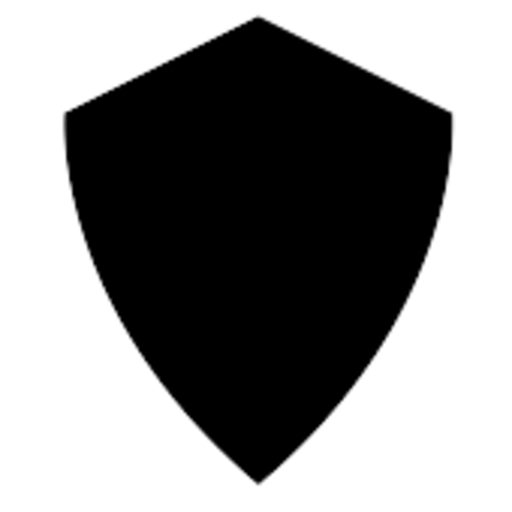
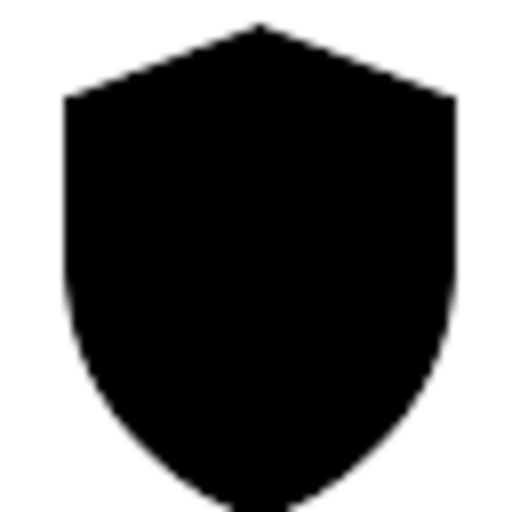
fix: M8 broken import (call_llm→call_claude), health check Opus→Haiku, auto_blog deprecated model
- M8 amendment: call_llm neexistuje v llm_engine → opraveno na call_claude
- Health check ping: claude-opus-4-6 → claude-haiku-4-5 (šetří → per MTok)
- auto_blog: gemini-2.0-flash-exp (deprecated) → gemini-2.5-flash

Changed region(s): [[0.0938, 0.0312, 0.9062, 1.0]]

diff --git a/frontend/src/app/layout.tsx b/frontend/src/app/layout.tsx
@@ -50,6 +50,17 @@ export const metadata: Metadata = {
         "AI Act povinnosti",
     ],
     authors: [{ name: "AIshield.cz" }],
+    icons: {
+        icon: [
+            { url: "/favicon.ico", sizes: "any" },
+            { url: "/favicon.svg", type: "image/svg+xml" },
+            { url: "/favicon-32.png", sizes: "32x32", type: "image/png" },
+            { url: "/favicon-16.png", sizes: "16x16", type: "image/png" },
+        ],
+        apple: [
+            { url: "/apple-touch-icon.png", sizes: "180x180", type: "image/png" },
+        ],
+    },
     openGraph: {
         title: {
             default: "AI Act compliance pro české weby — skenujte zdarma za 60 sekund | AIshield.cz",

diff --git a/backend/monitoring/admin_notifier.py b/backend/monitoring/admin_notifier.py
@@ -1,0 +1,246 @@
+"""
+AIshield.cz — Admin Notifier
+Odesílá emailové notifikace adminům o důležitých událostech:
+  - Chyby v pipeline (fire_and_forget_notify_error)
+  - Organický sken dokončen
+  - Hloubkový sken spuštěn
+  - Klient si zobrazil výsledky
+  - Dokumenty čekají na schválení
+"""
+
+import asyncio
+import logging
+import threading
+from datetime import datetime, timezone
+
+from backend.outbound.email_engine import send_email
+
+logger = logging.getLogger(__name__)
+
+# Adminské emaily — stejné jako v pioneer.py
+ADMIN_EMAILS = ["info@aishield.cz"]
+
+ADMIN_PANEL_URL = "https://aishield.cz/admin"
+
+
+def _wrap(title: str, body_html: str) -> str:
+    """Obalí obsah do společné šablony."""
+    return f"""
+    <div style="font-family: Arial, sans-serif; max-width: 700px; margin: 0 auto; color: #1a1a2e;">
+        <h2>{title}</h2>
+        {body_html}
+        <hr style="margin: 24px 0; border: none; border-top: 1px solid #e0e0e0;">
+        <p style="font-size: 12px; color: #888;">
+            Automatická notifikace z AIshield.cz — {datetime.now(timezone.utc).strftime('%Y-%m-%d %H:%M UTC')}
+        </p>
+    </div>"""
+
+
+async def _send_to_admins(subject: str, html: str) -> None:
+    """Pošle email všem adminům. Chyby loguje, ale nepropaguje."""
+    for email in ADMIN_EMAILS:
+        try:
+            await send_email(to=email, subject=subject, html=html)
+        except Exception as e:
+            logger.warning(f"[AdminNotifier] Email na {email} selhal: {e}")
+
+
+# ──────────────────────────────────────────────────────────────────────
+#  fire_and_forget_notify_error  — synchronní wrapper pro pipeline.py
+# ──────────────────────────────────────────────────────────────────────
+
+def fire_and_forget_notify_error(
+    module: str,
+    error: Exception | None,
+    context: dict | None = None,
+) -> None:
+    """
+    Synchronní fire-and-forget: spustí async odeslání v novém threadu.
+    Volá se z pipeline.py uvnitř try/except — nesmí nikdy crashnout.
+    """
+    try:
+        ctx = context or {}
+        subject_text = ctx.pop("subject", None)
+        subject = subject_text or f"⚠ Chyba v {module}"
+        err_str = str(error) if error else "(notifikace bez chyby)"
+
+        rows = "".join(
+            f"<tr><td style='padding:6px 12px; border:1px solid #ddd; font-weight:bold;'>{k}</td>"
+            f"<td style='padding:6px 12px; border:1px solid #ddd;'>{v}</td></tr>"
+            for k, v in ctx.items()
+        )
+
+        html = _wrap(subject, f"""
+            <p><b>Modul:</b> {module}</p>
+            <p><b>Chyba:</b> <code>{err_str}</code></p>
+            {"<table style='border-collapse:collapse; width:100%;'>" + rows + "</table>" if rows else ""}
+            <p style="margin-top:16px;">
+                <a href="{ADMIN_PANEL_URL}" style="background:#6366f1; color:white; padding:10px 20px; border-radius:8px; text-decoration:none; font-weight:bold;">
+                    Otevřít admin panel
+                </a>
+            </p>
+        """)
+
+        def _run():
+            loop = asyncio.new_event_loop()
+            try:
+                loop.run_until_complete(_send_to_admins(subject, html))
+            except Exception as exc:
+                logger.warning(f"[AdminNotifier] fire_and_forget selhal: {exc}")
+            finally:
+                loop.close()
+
+        t = threading.Thread(target=_run, daemon=True)
+        t.start()
+    except Exception as e:
+        logger.warning(f"[AdminNotifier] fire_and_forget_notify_error selhalo: {e}")
+
+
+# ──────────────────────────────────────────────────────────────────────
+#  notify_error  — async verze pro scan.py
+# ──────────────────────────────────────────────────────────────────────
+
+async def notify_error(
+    module: str,
+    error: Exception | None,
+    context: dict | None = None,
+    severity: str = "high",
+) -> None:
+    """Async notifikace o chybě — volá se z scan.py."""
+    ctx = context or {}
+    err_str = str(error) if error else "(bez detailu)"
+    color = {"critical": "#dc2626", "high": "#ea580c", "medium": "#d97706"}.get(severity, "#6b7280")
+
+    rows = "".join(
+        f"<tr><td style='padding:6px 12px; border:1px solid #ddd; font-weight:bold;'>{k}</td>"
+        f"<td style='padding:6px 12px; border:1px solid #ddd;'>{v}</td></tr>"
+        for k, v in ctx.items()
+    )
+
+    html = _wrap(f"⚠ Chyba v {module}", f"""
+        <p><b>Modul:</b> {module}</p>
+        <p><b>Závažnost:</b> <span style="color:{color}; font-weight:bold;">{severity.upper()}</span></p>
+        <p><b>Chyba:</b> <code>{err_str}</code></p>
+        {"<table style='border-collapse:collapse; width:100%;'>" + rows + "</table>" if rows else ""}
+        <p style="margin-top:16px;">
+            <a href="{ADMIN_PANEL_URL}" style="background:#6366f1; color:white; padding:10px 20px; border-radius:8px; text-decoration:none; font-weight:bold;">
+                Otevřít admin panel
+            </a>
+        </p>
+    """)
+    await _send_to_admins(f"⚠ [{severity.upper()}] Chyba v {module}", html)
+
+
+# ──────────────────────────────────────────────────────────────────────
+#  notify_organic_scan_completed
+# ──────────────────────────────────────────────────────────────────────
+
+async def notify_organic_scan_completed(
+    scan_id: str,
+    url: str,
+    company_id: str,
+    company_name: str,
+    total_findings: int,
+    high_findings: int,
+    medium_findings: int,
+    low_findings: int,
+    scan_duration_s: float,
+    triggered_by: str = "client",
+    scan_status: str = "done",
+) -> None:
+    """Notifikace: klient si sám spustil sken a ten doběhl."""
+    duration_str = f"{scan_duration_s:.1f}s" if scan_duration_s else "N/A"
+    html = _wrap("🔍 Organický sken dokončen", f"""
+        <p><b>Firma:</b> {company_name}</p>
+        <p><b>URL:</b> {url}</p>
+        <p><b>Nálezů:</b> {total_findings} (🔴 {high_findings} high, 🟠 {medium_findings} medium, 🟢 {low_findings} low)</p>
+        <p><b>Doba skenu:</b> {duration_str}</p>
+        <p><b>Spustil:</b> {triggered_by}</p>
+        <p style="margin-top:16px;">
+            <a href="{ADMIN_PANEL_URL}/company/{company_id}" style="background:#6366f1; color:white; padding:10px 20px; border-radius:8px; text-decoration:none; font-weight:bold;">
+                Detail firmy v admin panelu
+            </a>
+        </p>
+    """)
+    await _send_to_admins(f"🔍 Sken dokončen — {company_name} ({high_findings} high)", html)
+
+
+# ──────────────────────────────────────────────────────────────────────
+#  notify_deep_scan_started
+# ──────────────────────────────────────────────────────────────────────
+
+async def notify_deep_scan_started(
+    scan_id: str,
+    url: str,
+    company_id: str,
+) -> None:
+    """Notifikace: hloubkový sken zahájen."""
+    html = _wrap("🕵 Hloubkový sken spuštěn", f"""
+        <p><b>Scan ID:</b> {scan_id}</p>
+        <p><b>URL:</b> {url}</p>
+        <p><b>Company ID:</b> {company_id}</p>
+        <p style="margin-top:16px;">
+            <a href="{ADMIN_PANEL_URL}" style="background:#6366f1; color:white; padding:10px 20px; border-radius:8px; text-decoration:none; font-weight:bold;">
+                Sledovat v admin panelu
+            </a>
+        </p>
+    """)
+    await _send_to_admins(f"🕵 Deep scan spuštěn — {url}", html)
+
+
+# ──────────────────────────────────────────────────────────────────────
+#  notify_scan_results_viewed
+# ──────────────────────────────────────────────────────────────────────
+
+async def notify_scan_results_viewed(
+    scan_id: str,
+    url: str,
+    company_name: str,
+    total_findings: int,
+    high_findings: int,
+    time_on_results_s: float | None = None,
+    scan_duration_s: float | None = None,
+    client_waited: bool | None = None,
+    triggered_by: str = "client",
+) -> None:
+    """Notifikace: klient si prohlédl výsledky skenu."""
+    time_str = f"{time_on_results_s:.0f}s" if time_on_results_s else "N/A"
+    html = _wrap("👁 Klient si prohlédl výsledky", f"""
+        <p><b>Firma:</b> {company_name}</p>
+        <p><b>URL:</b> {url}</p>
+        <p><b>Nálezů celkem:</b> {total_findings} (🔴 {high_findings} high)</p>
+        <p><b>Čas na stránce výsledků:</b> {time_str}</p>
+        <p><b>Čekal na výsledky:</b> {"ano" if client_waited else "ne" if client_waited is not None else "N/A"}</p>
+        <p><b>Spustil:</b> {triggered_by}</p>
+        <p style="margin-top:16px;">
+            <a href="{ADMIN_PANEL_URL}" style="background:#6366f1; color:white; padding:10px 20px; border-radius:8px; text-decoration:none; font-weight:bold;">
+                Otevřít admin panel
+            </a>
+        </p>
+    """)
+    await _send_to_admins(f"👁 {company_name} — prohlédl výsledky ({high_findings} high)", html)
+
+
+# ──────────────────────────────────────────────────────────────────────
+#  notify_documents_pending_review
+# ──────────────────────────────────────────────────────────────────────
+
+async def notify_documents_pending_review(
+    company_id: str,
+    company_name: str,
+    doc_count: int,
+    doc_names: list[str],
+) -> None:
+    """Notifikace: nové dokumenty vygenerované pipeline čekají na review."""
+    doc_list = "".join(f"<li>{name}</li>" for name in doc_names)
+    html = _wrap(f"📄 {doc_count} nových dokumentů čeká na review", f"""
+        <p><b>Firma:</b> {company_name}</p>
+        <p><b>Počet dokumentů:</b> {doc_count}</p>
+        <ul>{doc_list}</ul>
+        <p style="margin-top:16px;">
+            <a href="{ADMIN_PANEL_URL}/company/{company_id}" style="background:#6366f1; color:white; padding:10px 20px; border-radius:8px; text-decoration:none; font-weight:bold;">
+                Zkontrolovat dokumenty
+            </a>
+        </p>
+    """)
+    await _send_to_admins(f"📄 {company_name} — {doc_count} dokumentů ke kontrole", html)

diff --git a/backend/documents/m8_amendment.py b/backend/documents/m8_amendment.py
@@ -16,7 +16,7 @@ import logging
 from datetime import datetime, timezone
 from typing import Optional
 
-from backend.documents.llm_engine import call_llm
+from backend.documents.llm_engine import call_claude
 from backend.documents.m1_generator import DOCUMENT_NAMES
 
 logger = logging.getLogger(__name__)
@@ -118,12 +118,12 @@ DŮLEŽITÉ:
 - Použij profesionální design — tmavá hlavička, přehledné tabulky
 """
 
-    html, meta = await call_llm(
+    html, meta = await call_claude(
+        system=AMENDMENT_SYSTEM_PROMPT,
         prompt=prompt,
-        model="claude",
+        label="M8_amendment",
         temperature=0.3,
         max_tokens=8000,
-        module_name="M8_amendment",
     )
 
     # Validace výstupu

diff --git a/backend/monitoring/llm_usage_tracker.py b/backend/monitoring/llm_usage_tracker.py
@@ -256,9 +256,9 @@ class LLMUsageTracker:
                 result["claude"] = {"status": "missing", "message": "API klíč není nastaven"}
             else:
                 client = anthropic.Anthropic(api_key=key)
-                # Minimal API call to verify key works
+                # Minimal API call to verify key works (Haiku = nejlevnější)
                 resp = client.messages.create(
-                    model="claude-opus-4-6",
+                    model="claude-haiku-4-5",
                     max_tokens=1,
                     messages=[{"role": "user", "content": "hi"}],
                 )

diff --git a/auto_blog/auto_blog.py b/auto_blog/auto_blog.py
@@ -39,7 +39,7 @@ USED_PATH = SCRIPT_DIR / "used_topics.json"
 LOG_PATH = SCRIPT_DIR / "auto_blog.log"
 
 GEMINI_MODEL = "gemini-2.5-flash"
-GEMINI_IMAGE_MODEL = "gemini-2.0-flash-exp"  # for image generation via Imagen
+GEMINI_IMAGE_MODEL = "gemini-2.5-flash"  # fallback, primary uses Imagen 4.0
 GEMINI_API_BASE = "https://generativelanguage.googleapis.com/v1beta"
 
 SITE_URL = "https://aishield.cz"
